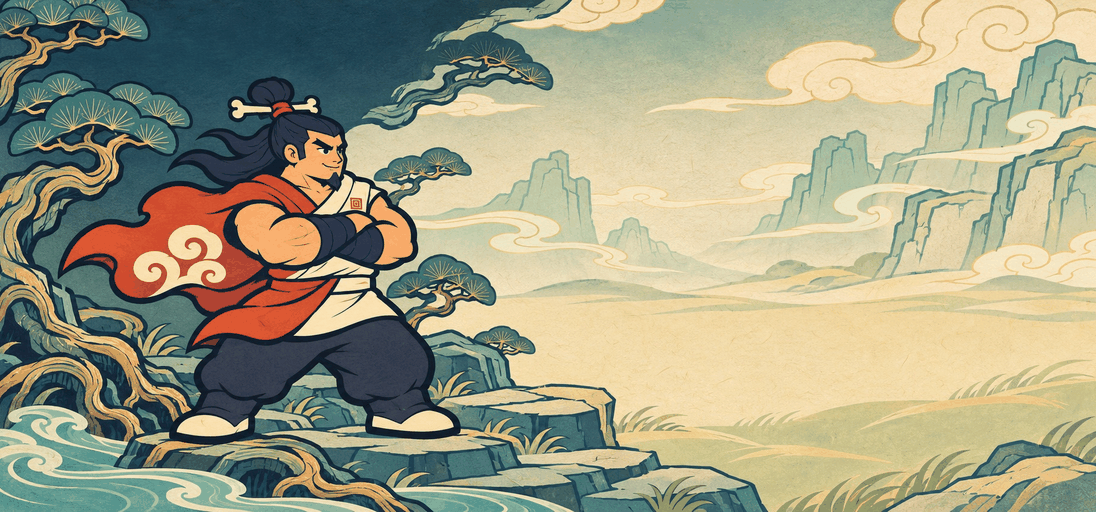
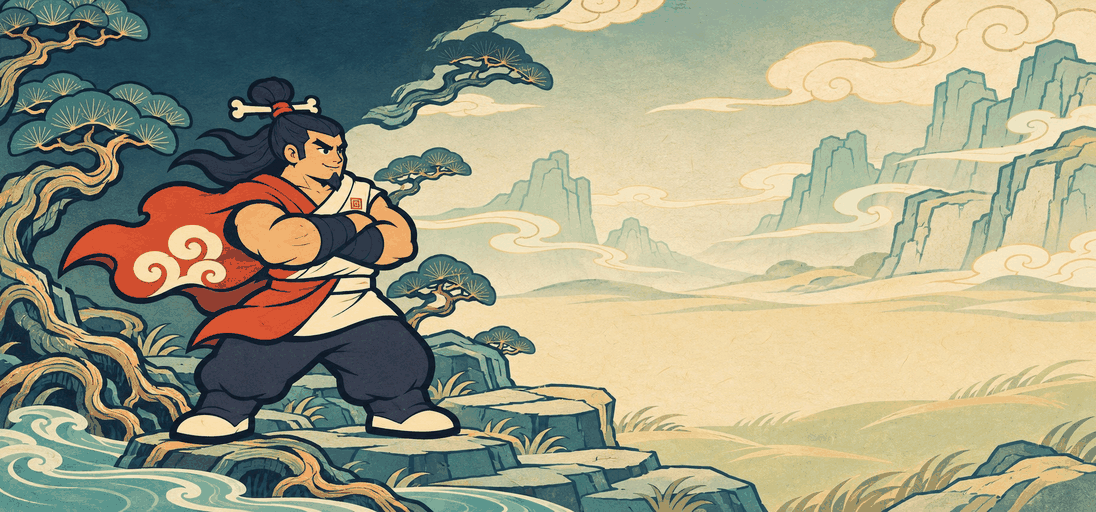
Keep the woodcut title within the shell bundle budget

diff --git a/tools/prepare-q-art.py b/tools/prepare-q-art.py
@@ -28,7 +28,8 @@ def save(name, image):
     target.parent.mkdir(parents=True, exist_ok=True)
     if spec['encoding'] == 'png-palette':
         method = Image.Quantize.FASTOCTREE if image.mode == 'RGBA' else Image.Quantize.MEDIANCUT
-        image = image.quantize(256, method)
+        colors = 128 if name == 'title' else 256
+        image = image.quantize(colors, method)
     if spec['encoding'] == 'jpeg':
         image.convert('RGB').save(target, quality=84, optimize=True)
     else:
